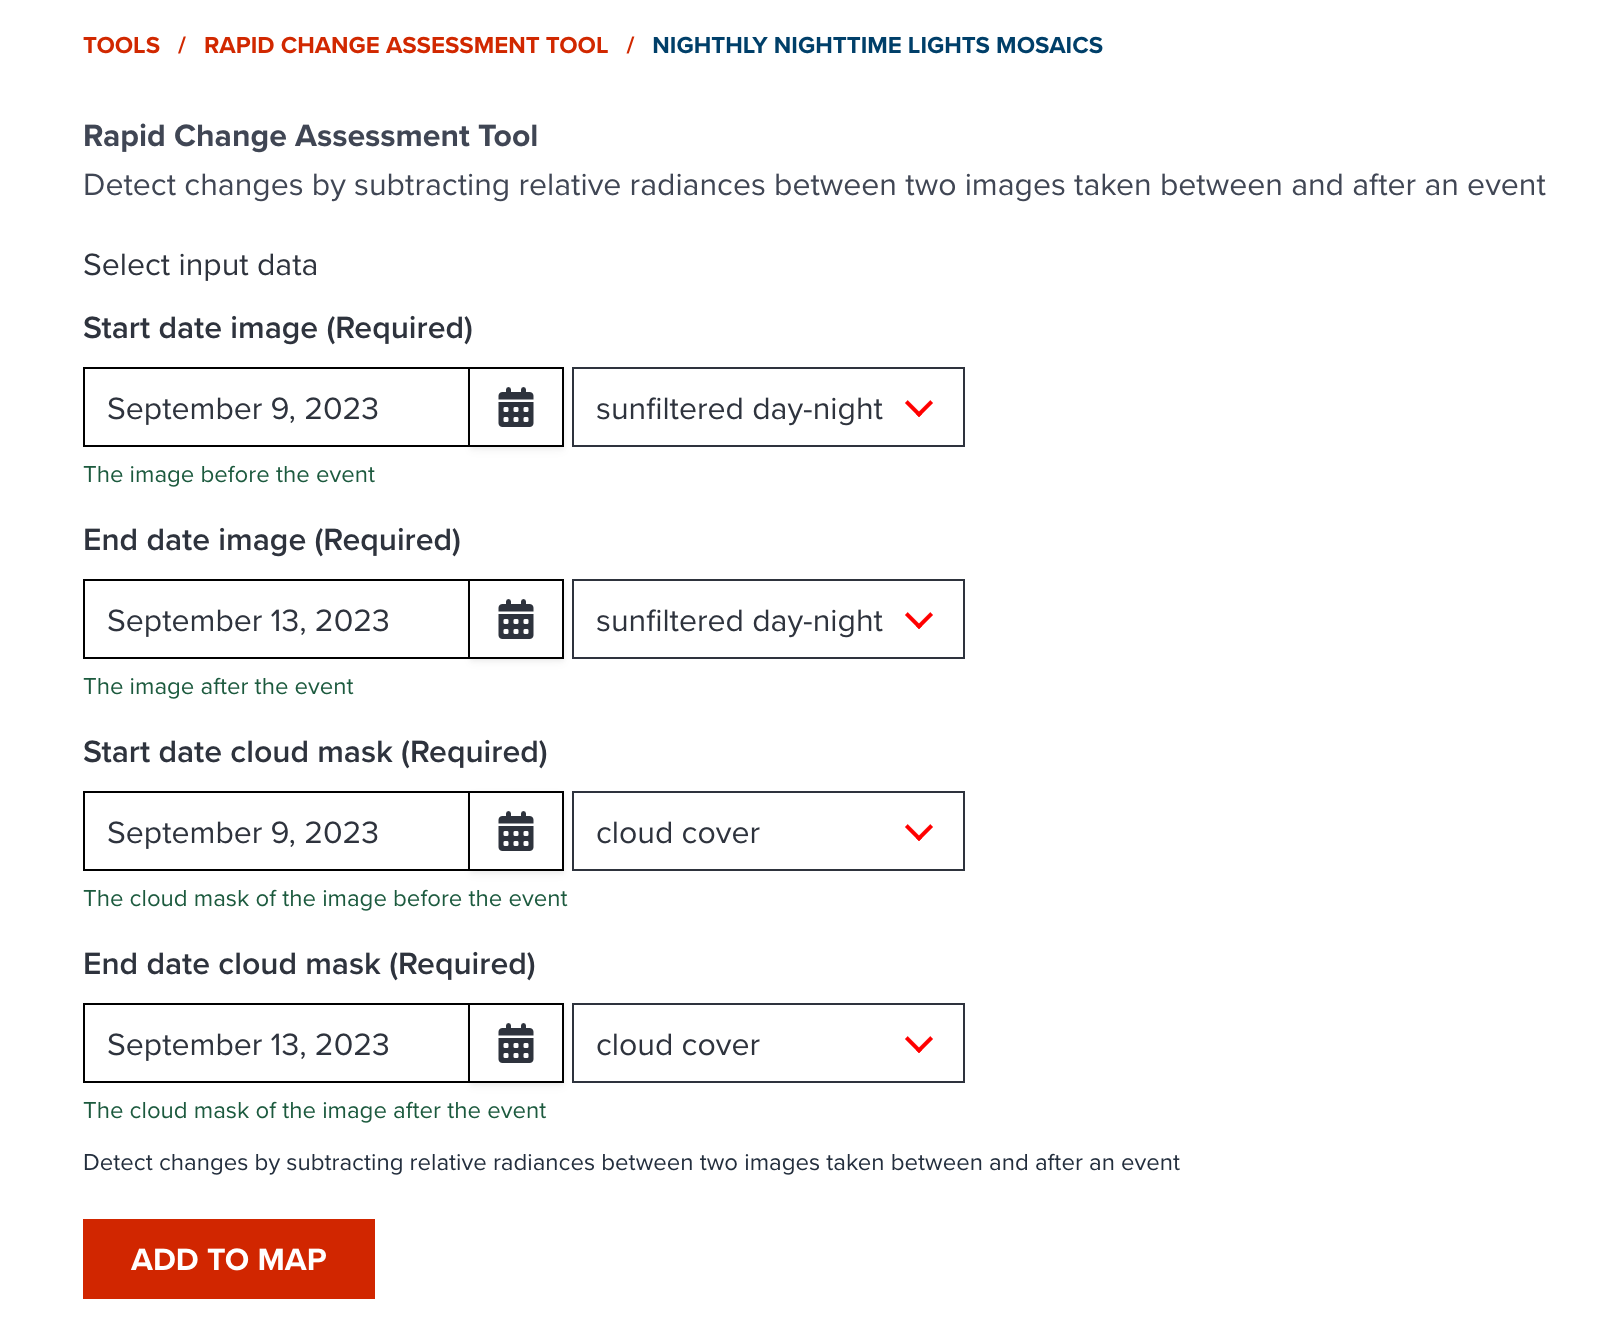
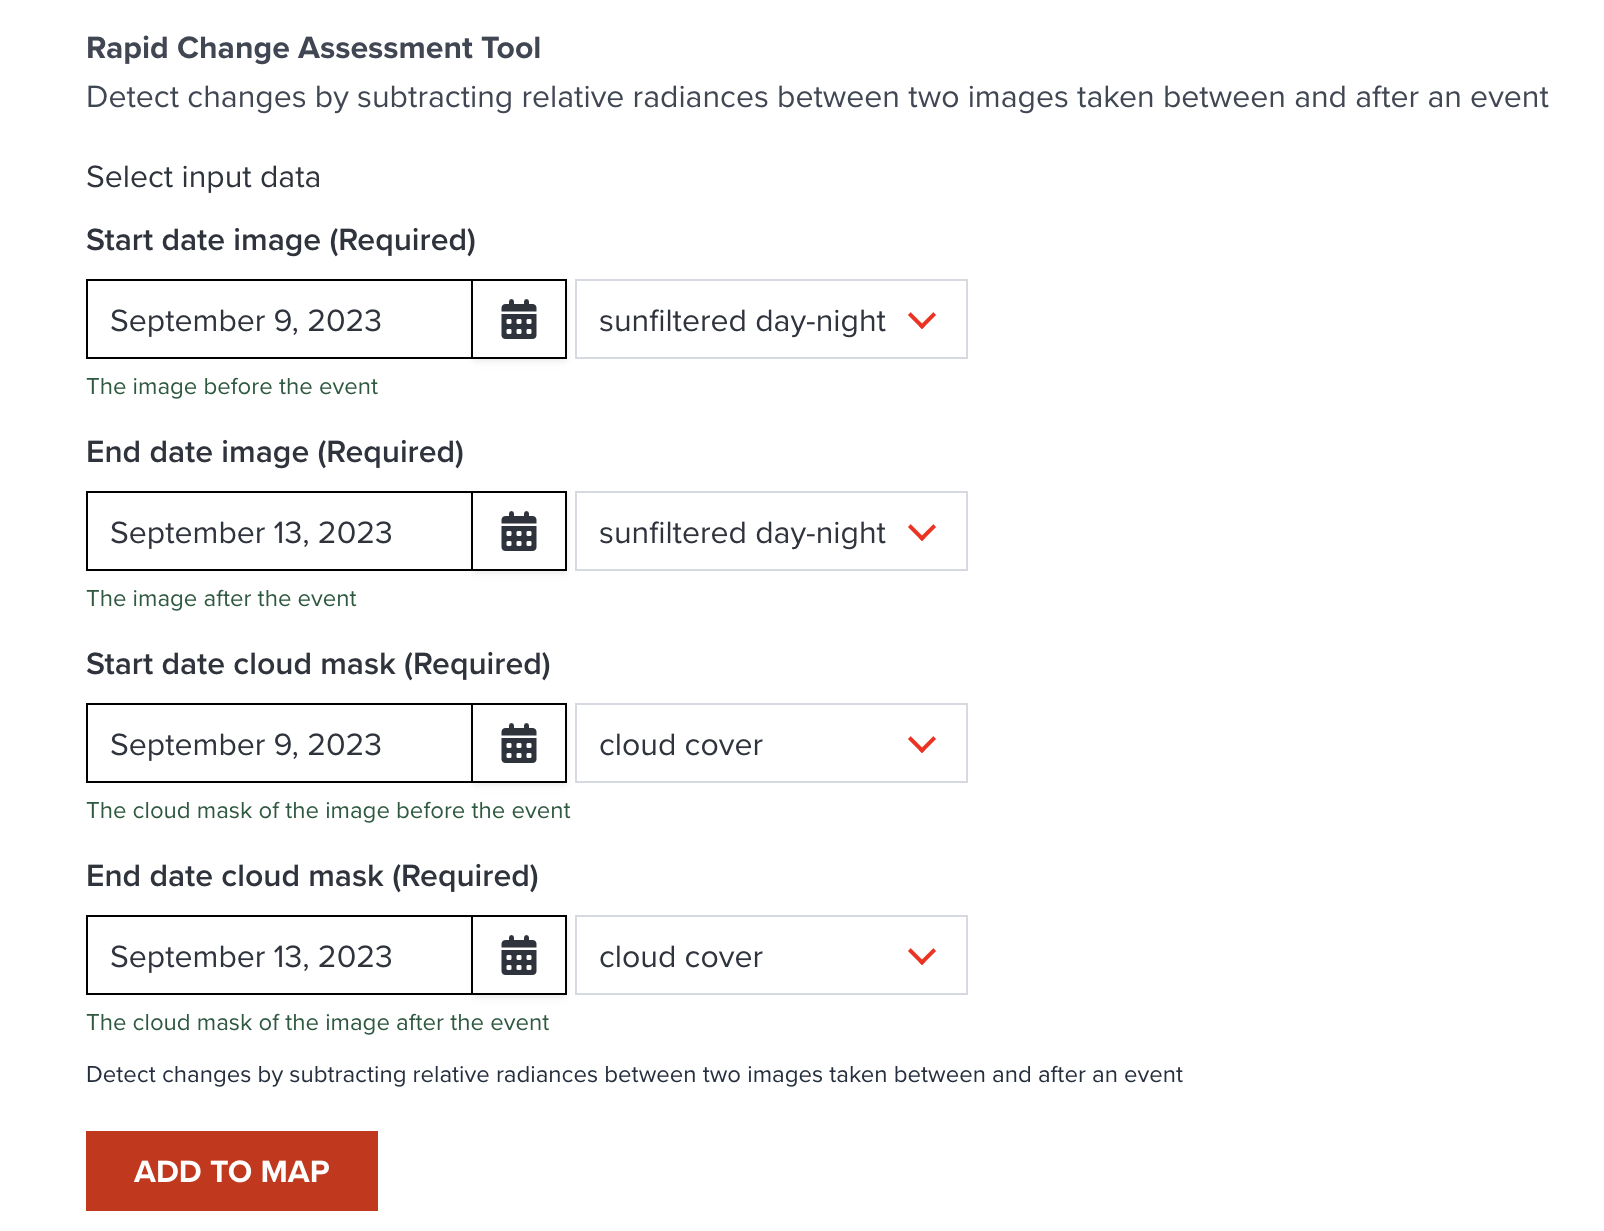
fix: tools page redesign (#3639)
* fix: improved Tools page design to split RCA and terrain tools, and added New Map

* fix: merged two breadcrumbs into a breadcrumb in Tools page

* fix: merged two breadcrumbs into a breadcrumb in Tools page

* doc: add changeset

* doc: replaced tools page screenshots

Changed region(s): [[0.0312, 0.1852, 0.7491, 0.9878], [0.0312, 0.0309, 0.9675, 0.1543], [0.5618, 0.5865, 0.593, 0.6483]]

diff --git a/sites/geohub/src/routes/(app)/tools/+page.svelte b/sites/geohub/src/routes/(app)/tools/+page.svelte
@@ -1,6 +1,6 @@
 <script lang="ts" context="module">
 	export interface ToolsBreadcrumb extends BreadcrumbPage {
-		type: 'Tools' | 'Tool' | 'Dataset';
+		type?: 'Tools' | 'Tool' | 'Dataset';
 		algorithm?: RasterAlgorithm;
 		algorithmId?: string;
 		dataset?: DatasetFeature;
@@ -31,7 +31,6 @@
 		StacCollection
 	} from '$lib/types';
 	import {
-		Breadcrumbs,
 		HeroHeader,
 		Notification,
 		getRandomColormap,
@@ -54,28 +53,23 @@
 	let datasets: DatasetFeatureCollection;
 	let algorithms = data.algorithms;
 
-	let breadcrumbs: BreadcrumbPage[] = [
+	let breadcrumbs: ToolsBreadcrumb[] = [
 		{ title: 'home', url: '/' },
-		{ title: 'Tools', url: $page.url.href }
+		{ title: 'Tools', type: 'Tools' }
 	];
 
-	let ToolsBreadcrumbs: ToolsBreadcrumb[] = [
-		{
-			title: 'Tools',
-			type: 'Tools'
-		}
-	];
+	let terrainAlgoIds = ['contours', 'hillshade', 'terrainrgb', 'terrarium'];
 
 	const handleBreadcrumbClicked = (e) => {
 		const page: ToolsBreadcrumb = e.detail;
-		if (ToolsBreadcrumbs?.length > 0) {
-			const pageIndex = ToolsBreadcrumbs.findIndex((p) => p.title === page.title);
-			ToolsBreadcrumbs = [...ToolsBreadcrumbs.slice(0, pageIndex + 1)];
+		if (breadcrumbs?.length > 0) {
+			const pageIndex = breadcrumbs.findIndex((p) => p.title === page.title);
+			breadcrumbs = [...breadcrumbs.slice(0, pageIndex + 1)];
 		}
 	};
 
 	const handleToolSelected = async (page: ToolsBreadcrumb) => {
-		ToolsBreadcrumbs = [...ToolsBreadcrumbs, page];
+		breadcrumbs = [...breadcrumbs, page];
 		isLoading = true;
 		try {
 			const apiUrl = `/api/datasets?algorithm=${page.algorithmId}`;
@@ -89,14 +83,14 @@
 	const handleDatasetSelected = async (e) => {
 		const dataset: DatasetFeature = e.detail;
 		const dataType = dataset.properties.tags?.find((t) => t.key === 'type')?.value;
-		const algoBreadcrumb = ToolsBreadcrumbs[ToolsBreadcrumbs.length - 1];
+		const algoBreadcrumb = breadcrumbs[breadcrumbs.length - 1];
 		if (dataType === 'stac') {
 			// stac data
 			const res = await fetch(dataset.properties.url);
 			const collection = await res.json();
 
-			ToolsBreadcrumbs = [
-				...ToolsBreadcrumbs,
+			breadcrumbs = [
+				...breadcrumbs,
 				{
 					title: dataset.properties.name,
 					type: 'Dataset',
@@ -357,20 +351,66 @@
 	};
 </script>
 
-<HeroHeader title="Tools" bind:breadcrumbs />
+<HeroHeader
+	title="Tools and add-ons"
+	bind:breadcrumbs
+	on:breadcrumbClicked={handleBreadcrumbClicked}
+/>
 
 <div class="mx-6 my-4">
-	<Breadcrumbs bind:pages={ToolsBreadcrumbs} size="small" on:click={handleBreadcrumbClicked} />
-
-	{#each ToolsBreadcrumbs as page, index}
-		{@const isLastPage = index === ToolsBreadcrumbs.length - 1}
+	{#each breadcrumbs as page, index}
+		{@const isLastPage = index === breadcrumbs.length - 1}
 		<div hidden={!isLastPage}>
 			{#if page.type === 'Tools'}
 				{#if Object.keys(algorithms).length === 0}
 					<Notification showCloseButton={false}>No tools registered</Notification>
 				{:else}
+					{@const geohubAlgos = Object.keys(algorithms).filter(
+						(k) => !terrainAlgoIds.includes(k.toLowerCase())
+					)}
+					{@const terrainAlgos = Object.keys(algorithms).filter((k) =>
+						terrainAlgoIds.includes(k.toLowerCase())
+					)}
+
+					<h4 class="title is-4">Tools</h4>
+
 					<div class="columns is-multiline is-mobile">
-						{#each Object.keys(algorithms) as name}
+						<div class="column is-one-third-tablet is-one-quarter-desktop is-full-mobile">
+							<Card
+								linkName="Launch"
+								tag="Tool"
+								title="New Map"
+								description="Launch a standard map editor tool to create new map."
+								url="/maps/edit"
+							/>
+						</div>
+
+						{#each geohubAlgos as name}
+							{@const algo = algorithms[name]}
+							<div class="column is-one-third-tablet is-one-quarter-desktop is-full-mobile">
+								<Card
+									linkName="Explore datasets"
+									tag="Tool"
+									title={algo.title}
+									description={algo.description}
+									url=""
+									on:selected={() => {
+										handleToolSelected({
+											title: algo.title ?? name,
+											type: 'Tool',
+											algorithmId: name,
+											algorithm: algo
+										});
+									}}
+								/>
+							</div>
+						{/each}
+					</div>
+
+					<h4 class="title is-4">Terrain add-ons</h4>
+
+					<div class="columns is-multiline is-mobile">
+						{#each terrainAlgos as name}
 							{@const algo = algorithms[name]}
 							<div class="column is-one-third-tablet is-one-quarter-desktop is-full-mobile">
 								<Card
@@ -378,6 +418,7 @@
 									tag={algorithmCategory[name.toLowerCase()] ?? 'geohub'}
 									title={algo.title}
 									description={algo.description}
+									url=""
 									on:selected={() => {
 										handleToolSelected({
 											title: algo.title ?? name,

diff --git a/packages/svelte-undp-components/src/lib/components/HeroHeader.svelte b/packages/svelte-undp-components/src/lib/components/HeroHeader.svelte
@@ -11,6 +11,10 @@
 	import Breadcrumbs, { type BreadcrumbPage } from './Breadcrumbs.svelte';
 	import Tabs, { type Tab } from './Tabs.svelte';
 
+	import { createEventDispatcher } from 'svelte';
+
+	const dispatch = createEventDispatcher();
+
 	export let title: string;
 	export let icon = '';
 	export let breadcrumbs: BreadcrumbPage[];
@@ -19,10 +23,14 @@
 	export let button: HeroHeaderButton | undefined = undefined;
 
 	const tippyTooltip = initTooltipTippy();
+
+	const handleBreadcrumbClicked = (e: { detail: BreadcrumbPage }) => {
+		dispatch('breadcrumbClicked', e.detail);
+	};
 </script>
 
 <div class="has-background-light px-6 {tabs?.length > 0 ? 'pt-4' : 'py-4'}">
-	<div class="py-4"><Breadcrumbs pages={breadcrumbs} /></div>
+	<div class="py-4"><Breadcrumbs pages={breadcrumbs} on:click={handleBreadcrumbClicked} /></div>
 
 	<div class="is-flex mt-6 mb-5">
 		<p class="title is-3 is-uppercase">

diff --git a/.changeset/neat-dragons-study.md b/.changeset/neat-dragons-study.md
@@ -1,0 +1,5 @@
+---
+"@undp-data/svelte-undp-components": patch
+---
+
+fix: add breadcrumbClicked event in HeroHeader component

diff --git a/.changeset/calm-carrots-study.md b/.changeset/calm-carrots-study.md
@@ -1,0 +1,5 @@
+---
+"geohub": patch
+---
+
+fix: improved Tools page design to split RCA and terrain tools, and added New Map
